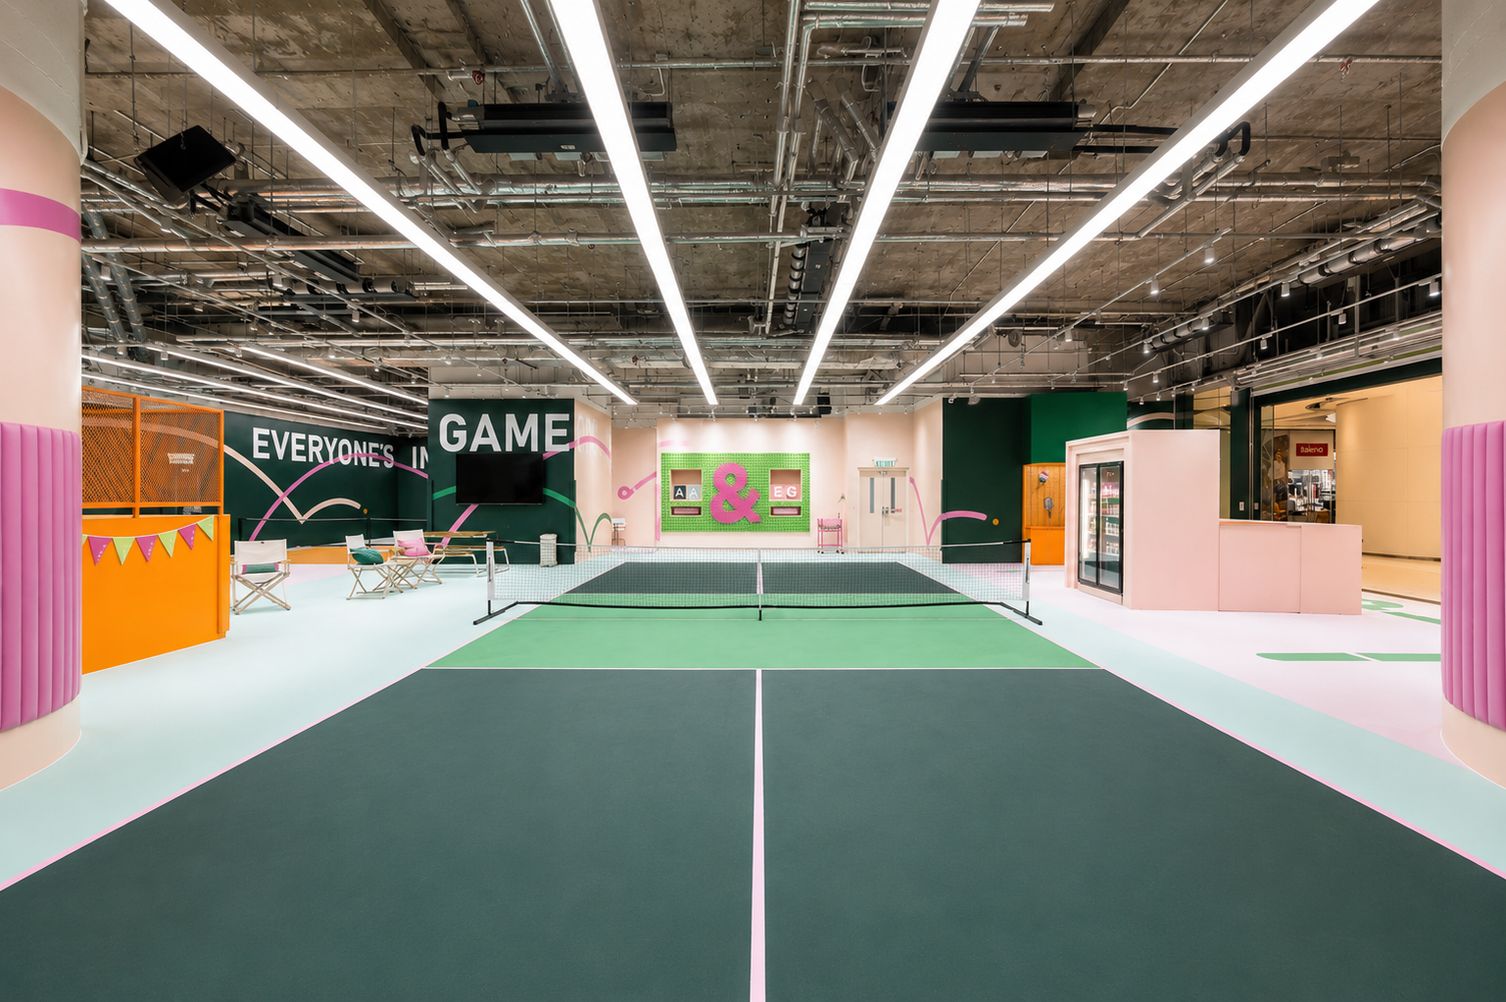
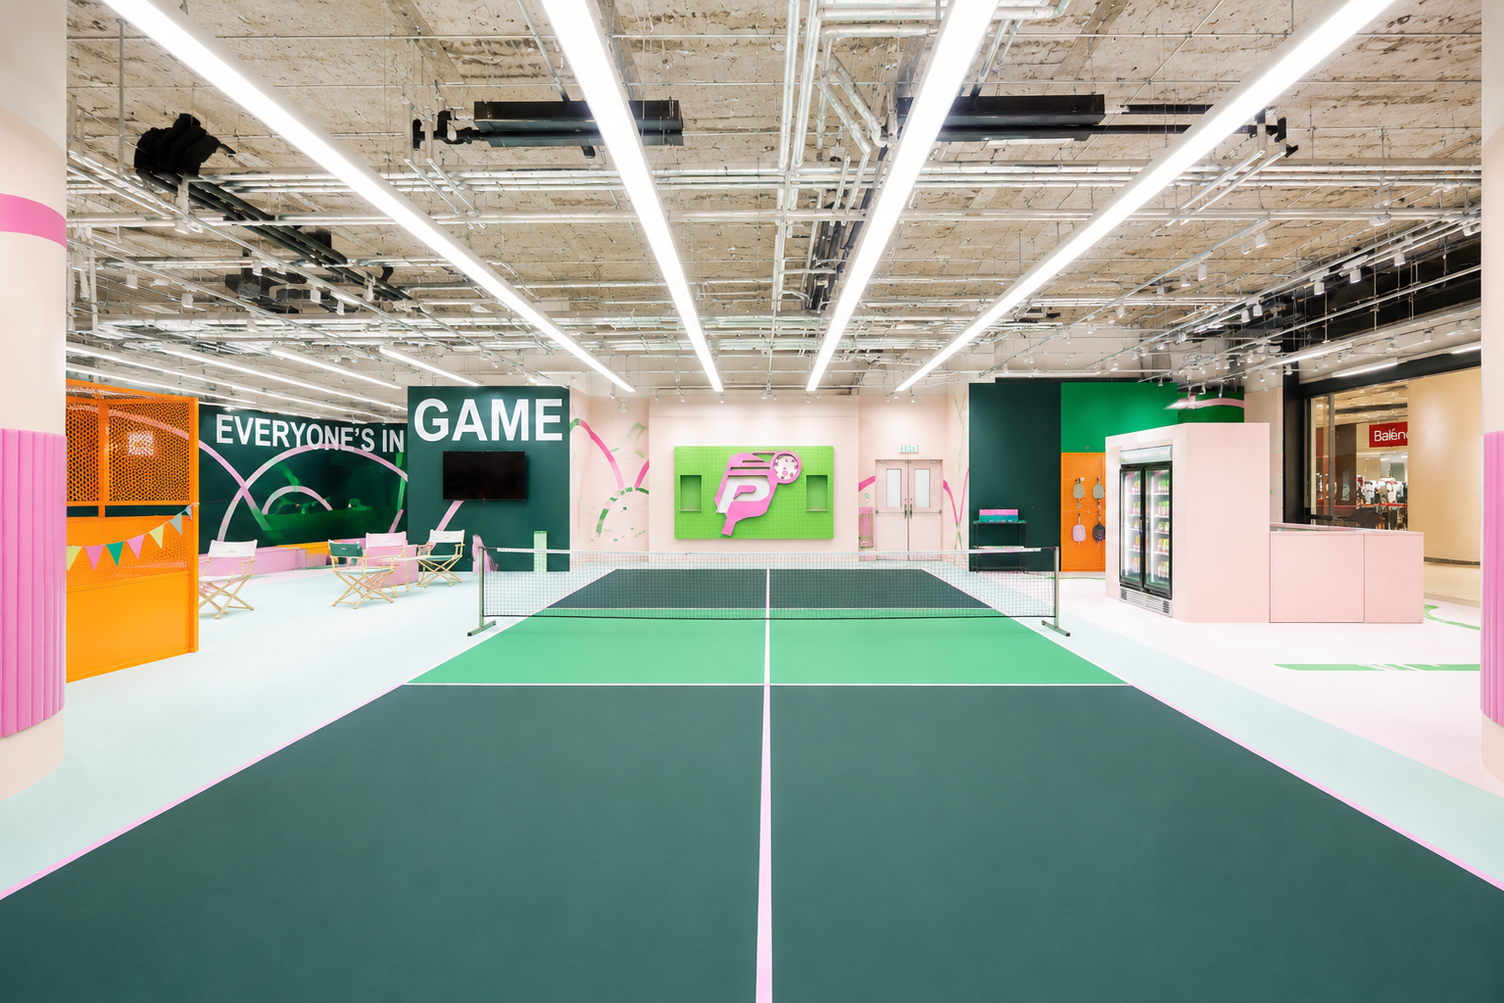
Modified court photos

diff --git a/assets/css/style.css b/assets/css/style.css
@@ -841,7 +841,8 @@ input, textarea, select { font-family: inherit; }
 .home-page {
   background: #f6f0e4;
   color: var(--green);
-  overflow: hidden;
+  overflow-x: clip;
+  overflow-y: visible;
 }
 
 .home-page .section {
@@ -1367,6 +1368,7 @@ input, textarea, select { font-family: inherit; }
 
 .home-court {
   color: #fff;
+  overflow: visible;
 }
 
 .home-court--green {
@@ -1381,7 +1383,7 @@ input, textarea, select { font-family: inherit; }
 .home-court__grid {
   display: grid;
   grid-template-columns: minmax(0, 1.25fr) minmax(360px, .95fr);
-  align-items: center;
+  align-items: start;
   gap: clamp(34px, 5vw, 64px);
   max-width: 1120px;
 }
@@ -1391,6 +1393,8 @@ input, textarea, select { font-family: inherit; }
   grid-template-columns: 76px minmax(0, 1fr);
   gap: 12px;
   align-items: start;
+  position: sticky;
+  top: 96px;
 }
 
 .home-court__thumbs {
@@ -2028,6 +2032,8 @@ input, textarea, select { font-family: inherit; }
 
   .home-court__gallery {
     grid-template-columns: 68px minmax(0, 1fr);
+    position: static;
+    top: auto;
   }
 
   .home-court__thumbs img {
@@ -2235,6 +2241,8 @@ input, textarea, select { font-family: inherit; }
 
   .home-court__gallery {
     grid-template-columns: 1fr;
+    position: static;
+    top: auto;
   }
 
   .home-court__thumbs {

diff --git a/resident/courts.php b/resident/courts.php
@@ -11,23 +11,21 @@ $courtImages = [
   'green' => [
     'title' => 'COURT GREEN',
     'tag' => "EVERYONE'S GAME",
-    'image' => 'https://pickleand.club/cdn/shop/files/250411_-_Pickle__008.jpg?v=1744701445&width=1946',
+    'image' => '../assets/img/court/court green-1.png',
     'thumbs' => [
-      'https://pickleand.club/cdn/shop/files/250411_-_Pickle__058.jpg?v=1744700811&width=400',
-      'https://pickleand.club/cdn/shop/files/250411_-_Pickle__061.jpg?v=1744700811&width=400',
-      '../assets/img/Hero.jpg',
-      'https://pickleand.club/cdn/shop/files/250411_-_Pickle__055.jpg?v=1744709434&width=400',
+      '../assets/img/court/court green-1.png',
+      '../assets/img/court/court green-2.png',
+      '../assets/img/court/court green-3.png',
     ],
   ],
   'pink' => [
     'title' => 'COURT PINK',
     'tag' => 'VIBE ON',
-    'image' => 'https://pickleand.club/cdn/shop/files/250411_-_Pickle__024r.jpg?v=1744816152&width=1946',
+    'image' => '../assets/img/court/court pink-1.webp',
     'thumbs' => [
-      'https://pickleand.club/cdn/shop/files/250411_-_Pickle__055.jpg?v=1744709434&width=400',
-      'https://pickleand.club/cdn/shop/files/250411_-_Pickle__058.jpg?v=1744700811&width=400',
-      '../assets/img/Hero.jpg',
-      'https://pickleand.club/cdn/shop/files/250411_-_Pickle__061.jpg?v=1744700811&width=400',
+      '../assets/img/court/court pink-1.webp',
+      '../assets/img/court/court pink-2.png',
+      '../assets/img/court/court pink-3.png',
     ],
   ],
 ];
@@ -140,7 +138,7 @@ $coaches = [
       <div class="classes-carousel" data-classes-carousel>
         <div class="classes-track">
           <article class="class-slide is-active" data-class-slide>
-            <img src="../assets/img/Hero.jpg" alt="Private and semi-private pickleball lesson" />
+            <img src="../assets/img/court/private lesson.png" alt="Private and semi-private pickleball lesson" />
             <div>
               <p>Pickled Classes</p>
               <h3>PRIVATE AND SEMI-PRIVATE LESSON</h3>
@@ -149,7 +147,7 @@ $coaches = [
             </div>
           </article>
           <article class="class-slide" data-class-slide hidden>
-            <img src="<?= htmlspecialchars($courtImages['pink']['image']) ?>" alt="Kids pickleball class" />
+            <img src="../assets/img/court/court pink-3.png" alt="Kids pickleball class" />
             <div>
               <p>Kids Program</p>
               <h3>FOUNDATIONAL AND YOUTH DEVELOPMENT</h3>
@@ -418,6 +416,22 @@ $bookingReference = 'PKL-' . date('ymd') . '-' . strtoupper(bin2hex(random_bytes
     email: ''
   };
   const money = value => '₱' + Number(value).toLocaleString('en-PH', { minimumFractionDigits: 2, maximumFractionDigits: 2 });
+  const courtRateCatalog = {
+    green: [
+      { variant: 'green-court-rentals', label: 'COURT RENTALS', price: 600, duration: '1 hour', court: 'COURT GREEN', title: 'COURT RENTALS ₱600', note: 'Reserve Court Green for casual or private play' },
+      { variant: 'green-lessons', label: 'LESSONS', price: 500, duration: '1 hour', court: 'COURT GREEN', title: 'LESSONS ₱500', note: 'Beginner-friendly drills and guided class sessions' },
+      { variant: 'green-private-coaching', label: 'PRIVATE COACHING', price: 1200, duration: '1 hour', court: 'COURT GREEN', title: 'PRIVATE COACHING ₱1,200', note: '1-on-1 session with a certified coach', dateMode: 'coach' },
+      { variant: 'green-training', label: 'TRAINING', price: 800, duration: '1 hour', court: 'COURT GREEN', title: 'TRAINING ₱800', note: 'Focused skills training for stronger gameplay' },
+    ],
+    pink: [
+      { variant: 'pink-base-rate', label: 'BASE RATE', price: 400, duration: '1 hour', court: 'COURT PINK', title: 'Base Rate ₱400', note: 'Community court for beginners, families, and future champions' },
+      { variant: 'pink-foundational-ages-6-10', label: 'FOUNDATIONAL AGES 6-10', price: 1200, duration: '4 sessions', court: 'COURT PINK', title: 'Foundational Ages 6-10 ₱1,200', note: 'Comprehensive 4-session course focused on hand-eye coordination and fun' },
+      { variant: 'pink-youth-development-ages-11-17', label: 'YOUTH DEVELOPMENT AGES 11-17', price: 1200, duration: '4 sessions', court: 'COURT PINK', title: 'Youth Development Ages 11-17 ₱1,200', note: '4-session course building technical consistency and match confidence' },
+      { variant: 'pink-adult-beginner-bootcamp', label: 'ADULT BEGINNER BOOTCAMP', price: 1800, duration: '4 sessions', court: 'COURT PINK', title: 'Adult Beginner Bootcamp ₱1,800', note: '4-session program covering essential rules and basic strokes' },
+      { variant: 'pink-introductory-trial-class', label: 'INTRODUCTORY TRIAL CLASS', price: 250, duration: '1 hour', court: 'COURT PINK', title: 'Introductory Trial Class ₱250', note: 'A single-session experience for up to 8 students' },
+      { variant: 'pink-parent-child-trial', label: 'PARENT & CHILD TRIAL', price: 500, duration: '1 hour', court: 'COURT PINK', title: 'Parent & Child Trial ₱500', note: 'A combined session for one adult and one child, ages 6+' },
+    ],
+  };
   const modal = document.getElementById('bookingModal');
   const dateStep = modal.querySelector('.booking-step--date');
   const detailsStep = modal.querySelector('.booking-step--details');
@@ -426,6 +440,23 @@ $bookingReference = 'PKL-' . date('ymd') . '-' . strtoupper(bin2hex(random_bytes
   const calendarGrid = modal.querySelector('.calendar-grid');
   const calendarTitle = modal.querySelector('.calendar-head strong');
   const calendarNavButtons = modal.querySelectorAll('.calendar-head button');
+  const rateList = document.querySelector('.rate-list');
+  const courtThumbs = document.querySelector('.court-thumbs');
+  const courtMainImage = document.getElementById('courtMainImage');
+  const courtGalleryCatalog = <?= json_encode([
+    'green' => [
+      'image' => $courtImages['green']['image'],
+      'alt' => 'Court Green main view',
+      'thumbAlt' => 'Court Green view',
+      'thumbs' => $courtImages['green']['thumbs'],
+    ],
+    'pink' => [
+      'image' => $courtImages['pink']['image'],
+      'alt' => 'Court Pink main view',
+      'thumbAlt' => 'Court Pink view',
+      'thumbs' => $courtImages['pink']['thumbs'],
+    ],
+  ], JSON_UNESCAPED_SLASHES) ?>;
   const coachRow = document.getElementById('coachRow');
   const coachSelect = document.getElementById('coachSelect');
   const coachSchedule = document.getElementById('coachSchedule');
@@ -635,12 +666,70 @@ $bookingReference = 'PKL-' . date('ymd') . '-' . strtoupper(bin2hex(random_bytes
     document.getElementById('selectedCourtPrice').textContent = money(state.price);
   }
 
-  document.querySelectorAll('[data-gallery-src]').forEach(button => {
-    button.addEventListener('click', () => {
-      document.querySelectorAll('[data-gallery-src]').forEach(item => item.classList.remove('is-active'));
-      button.classList.add('is-active');
-      document.getElementById('courtMainImage').src = button.dataset.gallerySrc;
+  function applyRateOption(button){
+    rateList.querySelectorAll('.rate-option').forEach(item => item.classList.remove('is-selected'));
+    button.classList.add('is-selected');
+    state.label = button.dataset.label;
+    state.variant = button.dataset.variant || state.variant;
+    state.note = button.dataset.note || button.querySelector('span').textContent;
+    state.price = Number(button.dataset.price);
+    state.duration = button.dataset.duration;
+    state.court = button.dataset.court;
+    state.dateMode = button.dataset.dateMode || 'daily';
+    document.getElementById('selectedCourtPrice').textContent = money(state.price);
+    updateBookingCopy();
+  }
+
+  function renderRateOptions(courtKey){
+    const options = courtRateCatalog[courtKey] || courtRateCatalog.green;
+    rateList.replaceChildren();
+    options.forEach((option, index) => {
+      const button = document.createElement('button');
+      button.className = 'rate-option' + (index === 0 ? ' is-selected' : '');
+      button.type = 'button';
+      button.dataset.variant = option.variant;
+      button.dataset.label = option.label;
+      button.dataset.note = option.note;
+      button.dataset.price = String(option.price);
+      button.dataset.duration = option.duration;
+      button.dataset.court = option.court;
+      if (option.dateMode) button.dataset.dateMode = option.dateMode;
+
+      const title = document.createElement('strong');
+      title.textContent = option.title;
+      const note = document.createElement('span');
+      note.textContent = option.note;
+      button.append(title, note);
+      rateList.appendChild(button);
     });
+    applyRateOption(rateList.querySelector('.rate-option'));
+  }
+
+  function renderCourtGallery(courtKey){
+    const gallery = courtGalleryCatalog[courtKey] || courtGalleryCatalog.green;
+    courtMainImage.src = gallery.image;
+    courtMainImage.alt = gallery.alt;
+    courtThumbs.replaceChildren();
+    gallery.thumbs.forEach((src, index) => {
+      const button = document.createElement('button');
+      button.className = 'court-thumb' + (index === 0 ? ' is-active' : '');
+      button.type = 'button';
+      button.dataset.gallerySrc = src;
+
+      const image = document.createElement('img');
+      image.src = src;
+      image.alt = gallery.thumbAlt + ' ' + (index + 1);
+      button.appendChild(image);
+      courtThumbs.appendChild(button);
+    });
+  }
+
+  courtThumbs.addEventListener('click', event => {
+    const button = event.target.closest('[data-gallery-src]');
+    if (!button) return;
+    courtThumbs.querySelectorAll('[data-gallery-src]').forEach(item => item.classList.remove('is-active'));
+    button.classList.add('is-active');
+    courtMainImage.src = button.dataset.gallerySrc;
   });
 
   document.querySelectorAll('[data-jump-court]').forEach(button => {
@@ -648,35 +737,23 @@ $bookingReference = 'PKL-' . date('ymd') . '-' . strtoupper(bin2hex(random_bytes
       document.getElementById('court-detail').scrollIntoView({ behavior: 'smooth', block: 'start' });
       if (button.dataset.jumpCourt === 'pink') {
         document.getElementById('selectedCourtTitle').textContent = 'COURT PINK';
-        document.getElementById('selectedCourtPrice').textContent = '₱400.00';
-        document.getElementById('courtMainImage').src = '<?= htmlspecialchars($courtImages['pink']['image']) ?>';
-        state.label = 'COURT PINK BASE RATE';
-        state.note = 'Community and development court for beginners, families, and future champions.';
-        state.price = 400;
-        state.duration = '1 hour';
-        state.court = 'COURT PINK';
-        state.dateMode = 'daily';
-        state.variant = 'pink-base-rate';
+        renderCourtGallery('pink');
+        renderRateOptions('pink');
       } else {
         document.getElementById('selectedCourtTitle').textContent = 'COURT GREEN';
-        document.getElementById('selectedCourtPrice').textContent = '₱600.00';
-        document.getElementById('courtMainImage').src = '<?= htmlspecialchars($courtImages['green']['image']) ?>';
-        state.label = 'COURT RENTALS';
-        state.note = 'Reserve Court Green for casual or private play.';
-        state.price = 600;
-        state.duration = '1 hour';
-        state.court = 'COURT GREEN';
-        state.dateMode = 'daily';
-        state.variant = 'green-court-rentals';
+        renderCourtGallery('green');
+        renderRateOptions('green');
       }
-      updateBookingCopy();
     });
   });
 
-  document.querySelectorAll('.rate-option, .option-card').forEach(button => {
+  rateList.addEventListener('click', event => {
+    const button = event.target.closest('.rate-option');
+    if (button) applyRateOption(button);
+  });
+
+  document.querySelectorAll('.option-card').forEach(button => {
     button.addEventListener('click', () => {
-      document.querySelectorAll('.rate-option').forEach(item => item.classList.remove('is-selected'));
-      if (button.classList.contains('rate-option')) button.classList.add('is-selected');
       state.label = button.dataset.label;
       state.variant = button.dataset.variant || state.variant;
       state.note = button.dataset.note || button.querySelector('span').textContent;
@@ -686,7 +763,7 @@ $bookingReference = 'PKL-' . date('ymd') . '-' . strtoupper(bin2hex(random_bytes
       state.dateMode = button.dataset.dateMode || 'daily';
       document.getElementById('selectedCourtPrice').textContent = money(state.price);
       updateBookingCopy();
-      if (button.classList.contains('option-card')) openModal();
+      openModal();
     });
   });
 

diff --git a/index.php b/index.php
@@ -170,14 +170,12 @@ $rules = [
     <div class="section-inner home-court__grid">
       <div class="home-court__gallery">
         <div class="home-court__thumbs">
-          <button type="button" class="is-active" data-court-thumb data-full="https://pickleand.club/cdn/shop/files/250411_-_Pickle__008.jpg?v=1744701445&width=1946" aria-label="Show Court Green image 1"><img src="https://pickleand.club/cdn/shop/files/250411_-_Pickle__008.jpg?v=1744701445&width=220" alt="" /></button>
-          <button type="button" data-court-thumb data-full="https://pickleand.club/cdn/shop/files/250411_-_Pickle__010.jpg?v=1744701445&width=1946" aria-label="Show Court Green image 2"><img src="https://pickleand.club/cdn/shop/files/250411_-_Pickle__010.jpg?v=1744701445&width=220" alt="" /></button>
-          <button type="button" data-court-thumb data-full="https://pickleand.club/cdn/shop/files/250411_-_Pickle__215.jpg?v=1744701445&width=1200" aria-label="Show Court Green image 3"><img src="https://pickleand.club/cdn/shop/files/250411_-_Pickle__215.jpg?v=1744701445&width=220" alt="" /></button>
-          <button type="button" data-court-thumb data-full="https://pickleand.club/cdn/shop/files/class2-touched.jpg?v=1744706809&width=1600" aria-label="Show Court Green image 4"><img src="https://pickleand.club/cdn/shop/files/class2-touched.jpg?v=1744706809&width=220" alt="" /></button>
-          <button type="button" data-court-thumb data-full="https://pickleand.club/cdn/shop/files/rachel_class1.jpg?v=1745813319&width=1200" aria-label="Show Court Green image 5"><img src="https://pickleand.club/cdn/shop/files/rachel_class1.jpg?v=1745813319&width=220" alt="" /></button>
+          <button type="button" class="is-active" data-court-thumb data-full="assets/img/court/court green-1.png" aria-label="Show Court Green image 1"><img src="assets/img/court/court green-1.png" alt="" /></button>
+          <button type="button" data-court-thumb data-full="assets/img/court/court green-2.png" aria-label="Show Court Green image 2"><img src="assets/img/court/court green-2.png" alt="" /></button>
+          <button type="button" data-court-thumb data-full="assets/img/court/court green-3.png" aria-label="Show Court Green image 3"><img src="assets/img/court/court green-3.png" alt="" /></button>
         </div>
         <div class="home-court__media">
-          <img data-court-main src="https://pickleand.club/cdn/shop/files/250411_-_Pickle__008.jpg?v=1744701445&width=1946" alt="Green indoor pickleball court" />
+          <img data-court-main src="assets/img/court/court green-1.png" alt="Green indoor pickleball court" />
         </div>
       </div>
       <div class="home-court__content">
@@ -185,12 +183,10 @@ $rules = [
         <p class="home-court__notice">Join as a member for <strong>Zero Guest Fees and Advanced Booking!</strong></p>
         <p class="home-price"><span data-court-price>₱600.00</span> <small>/ session</small></p>
         <ul class="home-court__list">
-          <li><button type="button" class="is-active" data-court-option data-price="₱600.00" data-package="Peak ₱600"><strong>Peak ₱600</strong><span>Mon-Fri 6pm-10pm, Sat-Sun &amp; holidays</span></button></li>
-          <li><button type="button" data-court-option data-price="₱400.00" data-package="Off-Peak ₱400"><strong>Off-Peak ₱400</strong><span>Mon-Fri 7am-5pm</span></button></li>
+          <li><button type="button" class="is-active" data-court-option data-price="₱600.00" data-package="Court Rentals ₱600"><strong>Court Rentals ₱600</strong><span>Reserve Court Green for casual or private play</span></button></li>
+          <li><button type="button" data-court-option data-price="₱500.00" data-package="Lessons ₱500"><strong>Lessons ₱500</strong><span>Beginner-friendly drills and guided class sessions</span></button></li>
           <li><button type="button" data-court-option data-price="₱1,200.00" data-package="Private Coaching ₱1200"><strong>Private Coaching ₱1,200</strong><span>1-on-1 session with a certified coach</span></button></li>
-          <li><button type="button" data-court-option data-price="₱300.00" data-package="Social Play ₱300"><strong>Social Play ₱300</strong><span>Open play, meet new players and rotate games</span></button></li>
-          <li><button type="button" data-court-option data-price="₱500.00" data-package="Intermediate Clinic ₱500"><strong>Intermediate Clinic ₱500</strong><span>Skills and drills for leveled-up players</span></button></li>
-          <li><button type="button" data-court-option data-price="₱2,500.00" data-package="Pro Series Bootcamp ₱2500"><strong>Pro Series Bootcamp ₱2,500</strong><span>3-day intensive workshop for tournament prep</span></button></li>
+          <li><button type="button" data-court-option data-price="₱800.00" data-package="Training ₱800"><strong>Training ₱800</strong><span>Focused skills training for stronger gameplay</span></button></li>
         </ul>
         <a href="<?= htmlspecialchars($courtBookingHref) ?>" class="btn btn-court-book btn-md" data-court-book data-court="green">Book now</a>
         <p class="home-court__badge">Main standard court</p>
@@ -203,14 +199,12 @@ $rules = [
     <div class="section-inner home-court__grid">
       <div class="home-court__gallery">
         <div class="home-court__thumbs">
-          <button type="button" class="is-active" data-court-thumb data-full="https://pickleand.club/cdn/shop/files/250411_-_Pickle__024r.jpg?v=1744816152&width=1946" aria-label="Show Court Pink image 1"><img src="https://pickleand.club/cdn/shop/files/250411_-_Pickle__024r.jpg?v=1744816152&width=220" alt="" /></button>
-          <button type="button" data-court-thumb data-full="https://pickleand.club/cdn/shop/files/250411_-_Pickle__208_cc44460d-89be-4e85-a4cb-835987f57ee6.jpg?v=1744816152&width=1200" aria-label="Show Court Pink image 2"><img src="https://pickleand.club/cdn/shop/files/250411_-_Pickle__208_cc44460d-89be-4e85-a4cb-835987f57ee6.jpg?v=1744816152&width=220" alt="" /></button>
-          <button type="button" data-court-thumb data-full="https://pickleand.club/cdn/shop/files/250411_-_Pickle__010.jpg?v=1744701445&width=1946" aria-label="Show Court Pink image 3"><img src="https://pickleand.club/cdn/shop/files/250411_-_Pickle__010.jpg?v=1744701445&width=220" alt="" /></button>
-          <button type="button" data-court-thumb data-full="https://pickleand.club/cdn/shop/files/class2-touched.jpg?v=1744706809&width=1600" aria-label="Show Court Pink image 4"><img src="https://pickleand.club/cdn/shop/files/class2-touched.jpg?v=1744706809&width=220" alt="" /></button>
-          <button type="button" data-court-thumb data-full="https://pickleand.club/cdn/shop/files/250411_-_Pickle__008.jpg?v=1744701445&width=1946" aria-label="Show Court Pink image 5"><img src="https://pickleand.club/cdn/shop/files/250411_-_Pickle__008.jpg?v=1744701445&width=220" alt="" /></button>
+          <button type="button" class="is-active" data-court-thumb data-full="assets/img/court/court pink-1.webp" aria-label="Show Court Pink image 1"><img src="assets/img/court/court pink-1.webp" alt="" /></button>
+          <button type="button" data-court-thumb data-full="assets/img/court/court pink-2.png" aria-label="Show Court Pink image 2"><img src="assets/img/court/court pink-2.png" alt="" /></button>
+          <button type="button" data-court-thumb data-full="assets/img/court/court pink-3.png" aria-label="Show Court Pink image 3"><img src="assets/img/court/court pink-3.png" alt="" /></button>
         </div>
         <div class="home-court__media">
-          <img data-court-main src="https://pickleand.club/cdn/shop/files/250411_-_Pickle__024r.jpg?v=1744816152&width=1946" alt="Pink indoor pickleball court" />
+          <img data-court-main src="assets/img/court/court pink-1.webp" alt="Pink indoor pickleball court" />
         </div>
       </div>
       <div class="home-court__content">
@@ -219,11 +213,11 @@ $rules = [
         <p class="home-price"><span data-court-price>₱400.00</span> <small>/ session</small></p>
         <ul class="home-court__list">
           <li><button type="button" class="is-active" data-court-option data-price="₱400.00" data-package="Court Pink Base ₱400"><strong>Base Rate ₱400</strong><span>Community court for beginners, families, and future champions</span></button></li>
-          <li><button type="button" data-court-option data-price="₱1,200.00" data-package="Foundational ₱1200"><strong>Foundational ₱1,200</strong><span>4-session course for ages 6-10</span></button></li>
-          <li><button type="button" data-court-option data-price="₱1,200.00" data-package="Youth Development ₱1200"><strong>Youth Development ₱1,200</strong><span>4-session course for ages 11-17</span></button></li>
-          <li><button type="button" data-court-option data-price="₱1,800.00" data-package="Adult Beginner Bootcamp ₱1800"><strong>Adult Beginner Bootcamp ₱1,800</strong><span>4-session program for rules and basic strokes</span></button></li>
-          <li><button type="button" data-court-option data-price="₱250.00" data-package="Intro Trial ₱250"><strong>Intro Trial ₱250</strong><span>Single-session experience for up to 8 students</span></button></li>
-          <li><button type="button" data-court-option data-price="₱500.00" data-package="Parent & Child Trial ₱500"><strong>Parent &amp; Child Trial ₱500</strong><span>One adult and one child, ages 6+</span></button></li>
+          <li><button type="button" data-court-option data-price="₱1,200.00" data-package="Foundational Ages 6-10 ₱1200"><strong>Foundational Ages 6-10 ₱1,200</strong><span>Comprehensive 4-session course focused on hand-eye coordination and fun</span></button></li>
+          <li><button type="button" data-court-option data-price="₱1,200.00" data-package="Youth Development Ages 11-17 ₱1200"><strong>Youth Development Ages 11-17 ₱1,200</strong><span>4-session course building technical consistency and match confidence</span></button></li>
+          <li><button type="button" data-court-option data-price="₱1,800.00" data-package="Adult Beginner Bootcamp ₱1800"><strong>Adult Beginner Bootcamp ₱1,800</strong><span>4-session program covering essential rules and basic strokes</span></button></li>
+          <li><button type="button" data-court-option data-price="₱250.00" data-package="Introductory Trial Class ₱250"><strong>Introductory Trial Class ₱250</strong><span>A single-session experience for up to 8 students</span></button></li>
+          <li><button type="button" data-court-option data-price="₱500.00" data-package="Parent & Child Trial ₱500"><strong>Parent &amp; Child Trial ₱500</strong><span>A combined session for one adult and one child, ages 6+</span></button></li>
         </ul>
         <a href="<?= htmlspecialchars($courtBookingHref) ?>" class="btn btn-court-book btn-md" data-court-book data-court="pink">Book now</a>
         <p class="home-court__badge">Slightly smaller but a lot happier</p>
